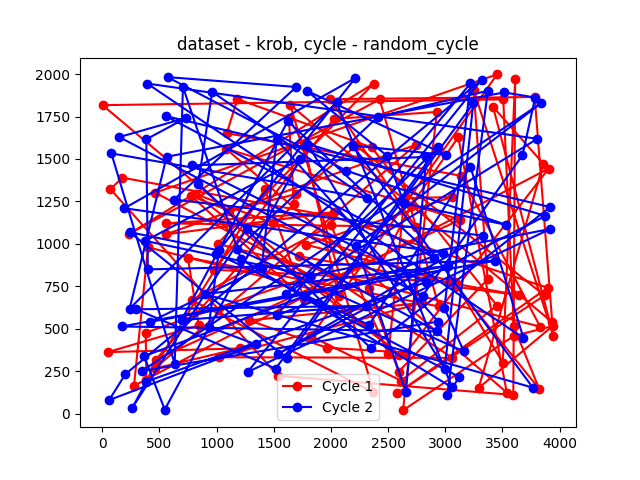
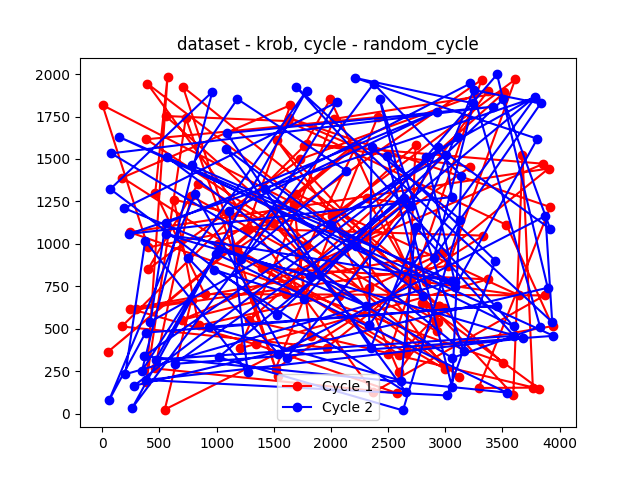
added first evolutionary implementation

diff --git a/imo_5.py b/imo_5.py
@@ -153,6 +153,35 @@ def regret_destroy_fix(tours,remove_count):
             unvisited.remove(best_city)
     return [tours[0],tours[1]]
 
+def regret_fix(tours,unvisited):
+
+    while len(unvisited) > 0:
+        tour = tours[0] if len(tours[0]) < len(tours[1]) else tours[1]
+        regrets = []
+        if len(unvisited) == 1:
+            regrets = [(0,unvisited[0])]
+        else:
+            for city in unvisited:
+                distances = [cities[tour[i]][city] + cities[city][tour[i+1]] - cities[tour[i]][tour[i+1]] for i in range(len(tour)-1)]
+                distances.append(cities[tour[0]][city] + cities[city][tour[-1]] - cities[tour[-1]][tour[0]])
+                distances.sort()
+                regret = distances[1] - distances[0]
+                regret -= 0.37 * distances[0]
+                regrets.append((regret, city))
+            regrets.sort(reverse=True)
+        best_city = regrets[0][1]
+        tour_distances = [cities[tour[i]][tour[i+1]] for i in range(len(tour)-1)]
+        best_increase = float('inf')
+        best_index = -1
+        for i in range(len(tour_distances)):
+            increase = cities[best_city][tour[i]] + cities[best_city][tour[i+1]] - tour_distances[i]
+            if increase < best_increase:
+                best_increase = increase
+                best_index = i + 1
+        tour.insert(best_index, best_city)
+        unvisited.remove(best_city)
+    return [tours[0],tours[1]]
+
 class Steepest(object):
     def __init__(self, cities):
         self.cities = cities
@@ -446,16 +475,18 @@ class Natura_local_search:
         self.local_search = Steepest(self.cities)
         self.perturbation_count = 0
         self.time_limit = 0
+        self.score_threshold = 300
         if file == 'kroa':
             self.time_limit = 357.370771
         elif file == 'krob':
             self.time_limit = 358.975393
 
-    def __call__(self):
+    def __call__(self,paths):
         start = time.time()
         #wygeneruj poczatkowa populacje - DONE
         solutions = list(map(random_cycle, [(cities, i) for i in range(20)]))
         _, population = zip(*list(map(Steepest(self.cities), solutions)))
+        population = list(population)
         while time.time() - start < self.time_limit:
             #Wylosuj dwa różne rozwiązania (rodziców) stosując rozkład równomierny - DONE
             parents = random.sample(population, k = 2)
@@ -463,24 +494,72 @@ class Natura_local_search:
             child = self.recombine(parents) #niezrobiona
             #y := Lokalne przeszukiwanie (y) (opcjonalnie) - DONE
             _, child = self.local_search(child)
-            #jeżeli y jest lepsze od najgorszego rozwiązania w populacji i (wystarczająco) różne od wszystkich rozwiązań w populacji - WIP
+            #jeżeli y jest lepsze od najgorszego rozwiązania w populacji i (wystarczająco) różne od wszystkich rozwiązań w populacji - DONE
+            different = True
+            for solution in population:
+                if abs(score(self.cities, solution) - score(self.cities, child)) < self.score_threshold:
+                    different = False
+                    break
             new_scores = [score(self.cities, x) for x in population]
             worst_idx = np.argmax(new_scores)
-            if score(self.cities, child) < new_scores[worst_idx]: #WIP
+            if score(self.cities, child) < new_scores[worst_idx] and different: #DONE
                 #Dodaj y do populacji i usuń najgorsze rozwiązanie - DONE
                 population.pop(worst_idx)
                 population.append(child)
 
             self.perturbation_count += 1
 
-        new_scores = [score(self.cities, x) for x in new_solutions]
+        new_scores = [score(self.cities, x) for x in population]
         best_idx = np.argmin(new_scores)
-        best = new_solutions[best_idx]
+        best = population[best_idx]
         
         return time.time() - start, best, self.perturbation_count
     
     def recombine(self,parents):
-        pass
+        sol1, sol2 = deepcopy(parents[0]), deepcopy(parents[1])
+        
+        remaining = []
+        for cyc1 in sol1:
+            n = len(cyc1)
+            if n == 1:
+                continue
+            for i in range(n):
+                p, q = cyc1[i], cyc1[(i+1)%n]
+                if p == -1 or q == -1 or p == q:
+                    continue
+                found = False
+                for cyc2 in sol2:
+                    m = len(cyc2)
+                    for j in range(m):
+                        u, v = cyc2[j], cyc2[(j+1)%m]
+                        if (p == u and q == v) or (p == v and q == u):
+                            found = True
+                            break
+                    if found:
+                        break
+                        
+                if not found:
+                    remaining.append(cyc1[i])
+                    remaining.append(cyc1[(i+1)%n])
+                    cyc1[i] = -1
+                    cyc1[(i+1)%n] = -1
+                    
+            for i in range(1, n):
+                x, y, z = cyc1[(i-1)%n], cyc1[i], cyc1[(i+1)%n]
+                if x == z == -1 and y != -1:
+                    remaining.append(y)
+                    cyc1[i] = -1
+                    
+            for i in range(1, n):
+                x = cyc1[i]
+                if x != -1 and np.random.rand() < 0.2:
+                    remaining.append(x)
+                    cyc1[i] = -1
+                    
+        a = [x for x in sol1[0] if x != -1]
+        b = [x for x in sol1[1] if x != -1]
+        assert len(a) + len(b) + len(remaining) == 200
+        return regret_fix([a, b], remaining)
 
 score_results = []
 time_results = []
@@ -520,10 +599,10 @@ for file in ['kroa','krob']:
     coords = pd.read_csv(file, sep=' ')
     positions=np.array([coords['x'], coords['y']]).T
     cities = np.round(pairwise_distances(np.array(positions)))
-    variants = [ILS1(cities,file),ILS2_local_search(cities,file),ILS2(cities,file)]
+    variants = [Natura_local_search(cities,file)]
     #variants = [MSLS(cities),ILS1(cities),ILS2(cities)]
     for solve in [random_cycle]:
-        solutions = list(map(solve, [(cities, i) for i in range(10)]))
+        solutions = list(map(solve, [(cities, i) for i in range(1)]))
         scores = [score(cities, x) for x in solutions]
         score_results.append(dict(file=file, function=solve.__name__, search="none", min=int(min(scores)), mean=int(np.mean(scores)), max=int(max(scores))))
         best_idx = np.argmin(scores)
